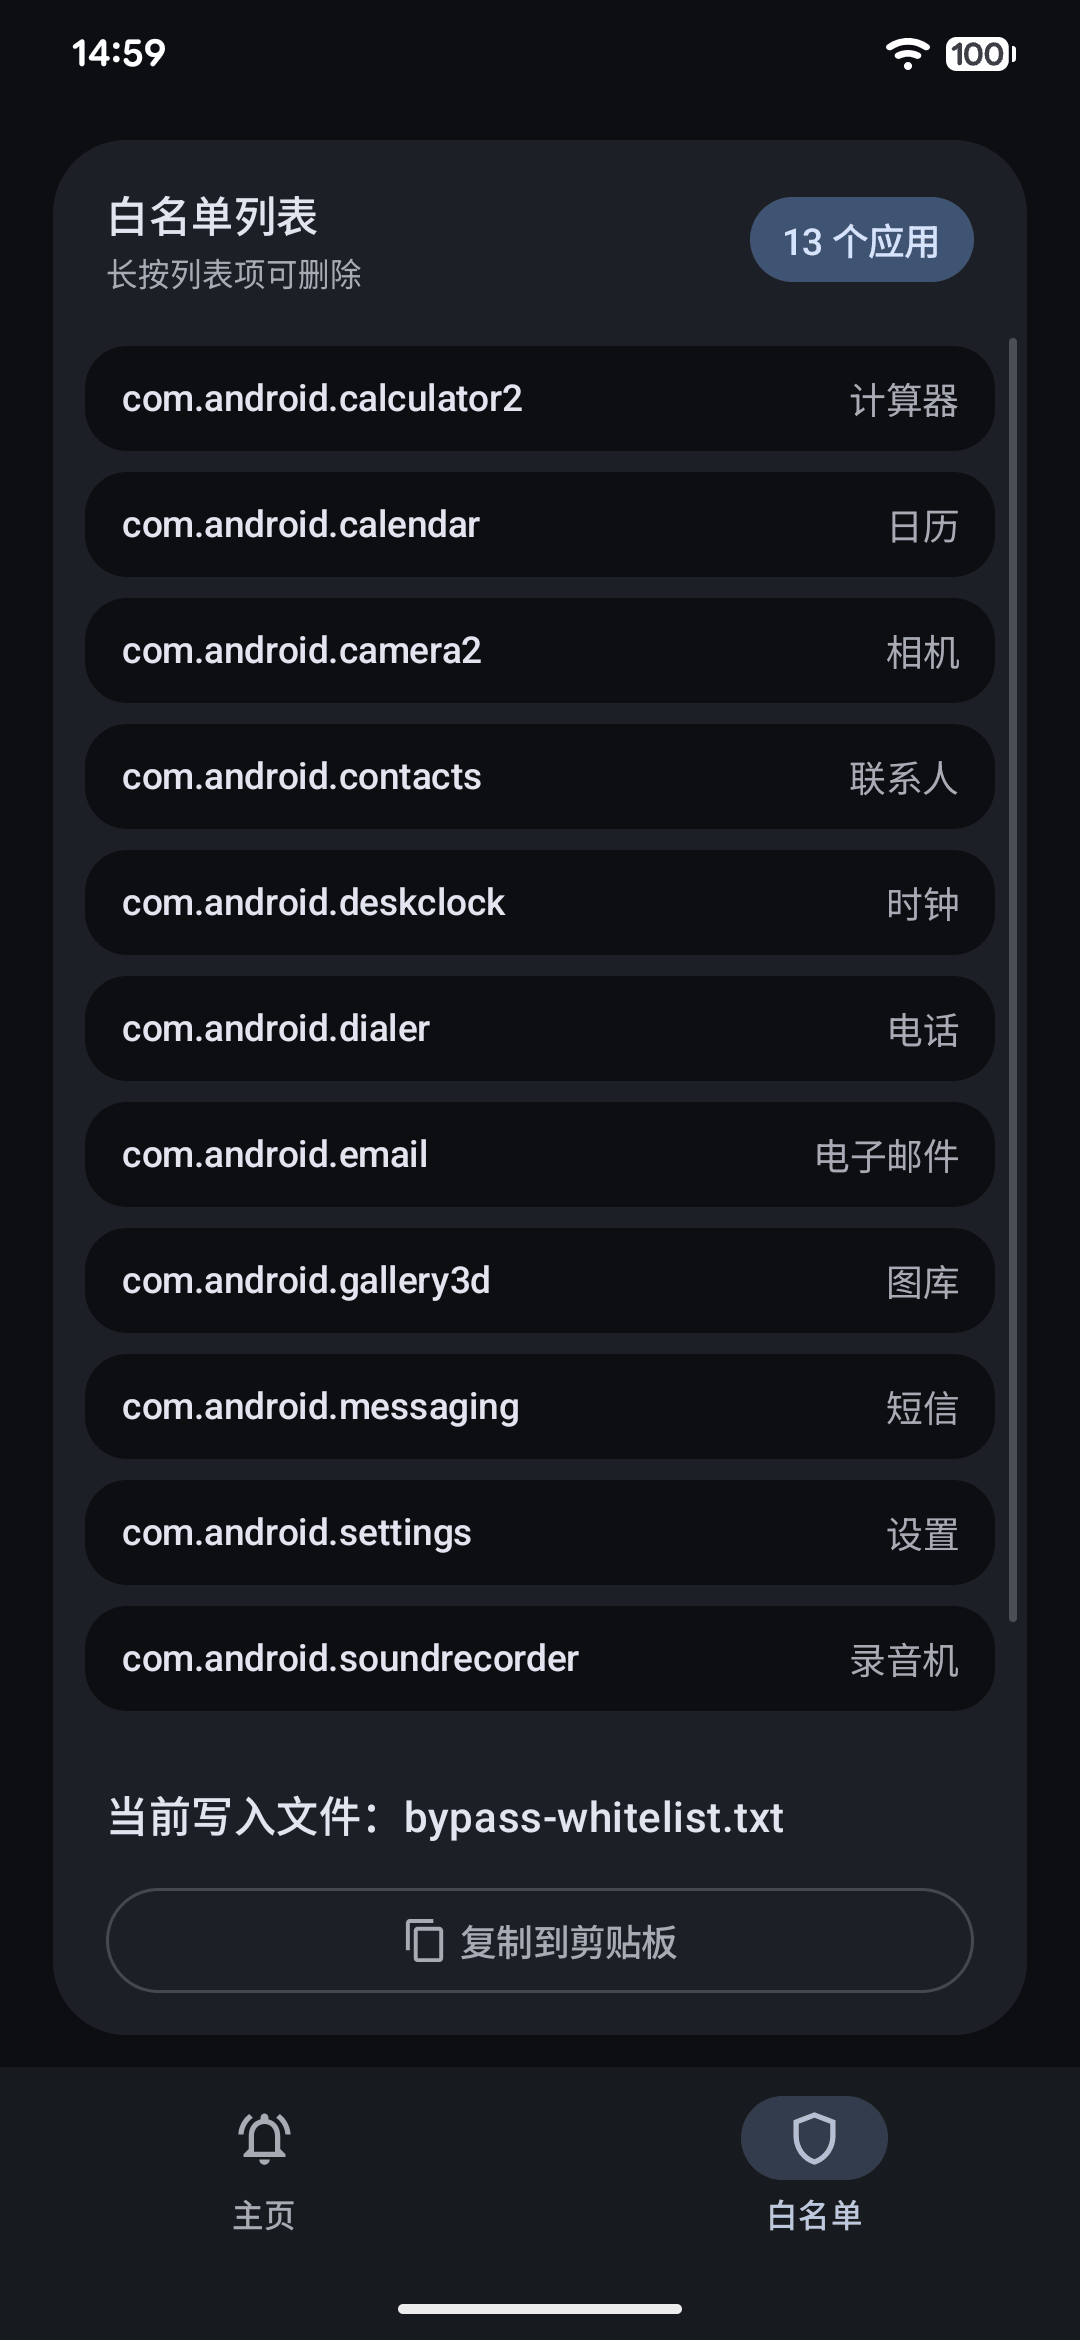
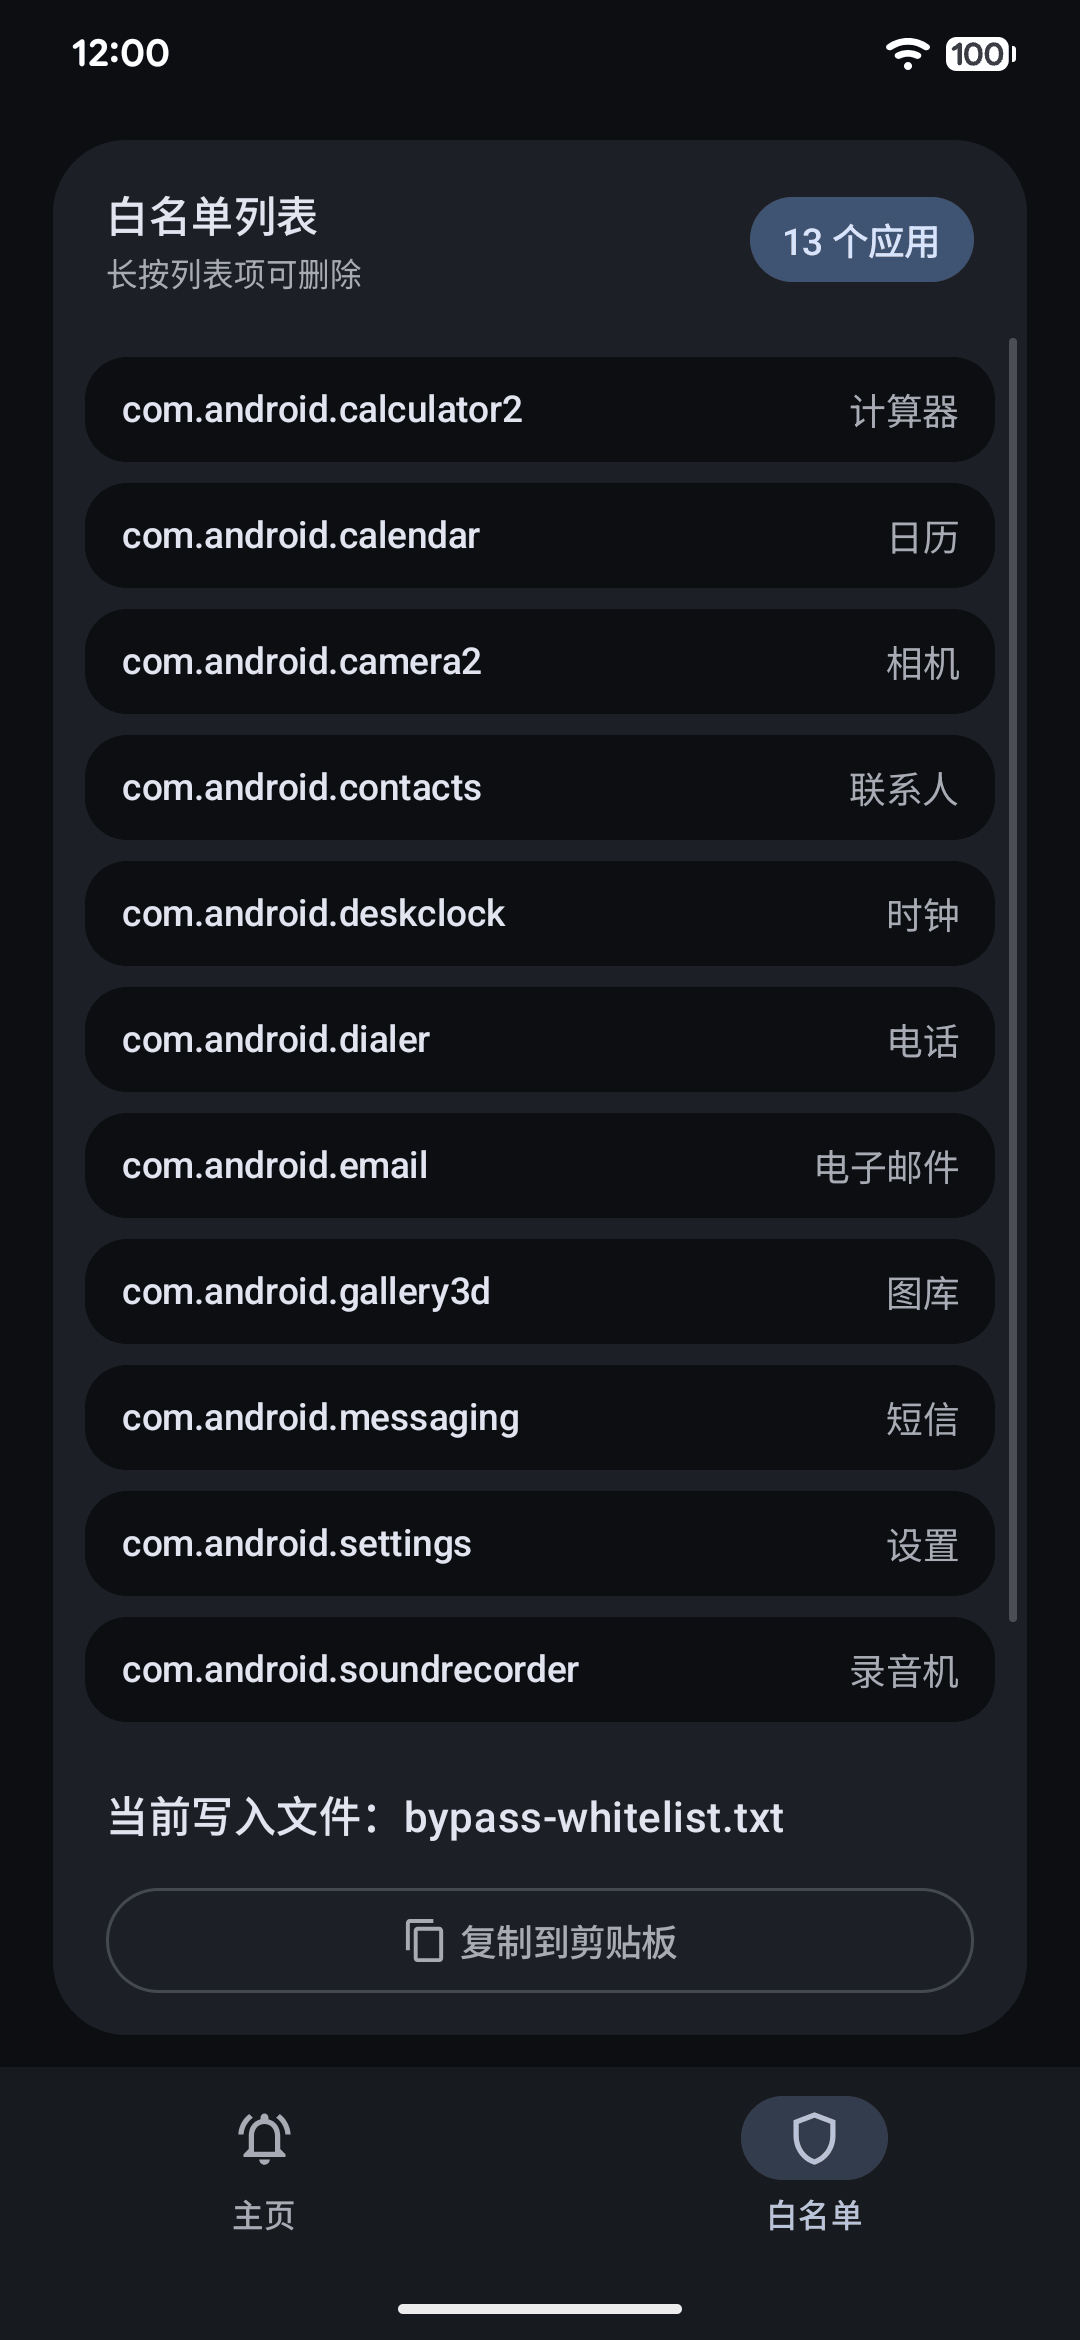
chore(app): 升级版本至 1.0.4 并统一构建环境
- versionCode 10 / versionName 1.0.4，更新截图
- CI 与 daemon toolchain 统一 JDK 21
- release 启用 R8 与资源压缩，补充签名前提说明

diff --git a/README.md b/README.md
@@ -89,7 +89,9 @@ app/src/main/java/com/ajiew/whitelistmaker/
 
 环境要求：
 
-- Android Studio，或配置了兼容 JDK 的 Android SDK 命令行环境
+- JDK 21
+- Android SDK Platform 37
+- Android Studio，或已配置上述环境的命令行工具
 
 常用命令：
 
@@ -111,6 +113,8 @@ app/src/main/java/com/ajiew/whitelistmaker/
 ```bash
 ./gradlew :app:packageReleaseApk
 ```
+
+该任务会通过 R8 压缩代码与资源，并需要签名配置（`keystore.properties` 或 `RELEASE_*` 环境变量），否则会在构建前直接失败。
 
 产物位于：
 

diff --git a/AGENTS.md b/AGENTS.md
@@ -39,7 +39,7 @@ com.example.second
 - Kotlin `2.4.21`，官方代码风格
 - Android Gradle Plugin `9.5.0`
 - Gradle Wrapper `9.6.0`
-- Java 11 字节码目标
+- Gradle daemon toolchain JDK 21; `sourceCompatibility`/`targetCompatibility` = Java 11
 - `minSdk 26`、`targetSdk 37`、`compileSdk 37`
 - Jetpack Compose + Material 3
 - Lifecycle `ViewModel`、`StateFlow`、Coroutines
